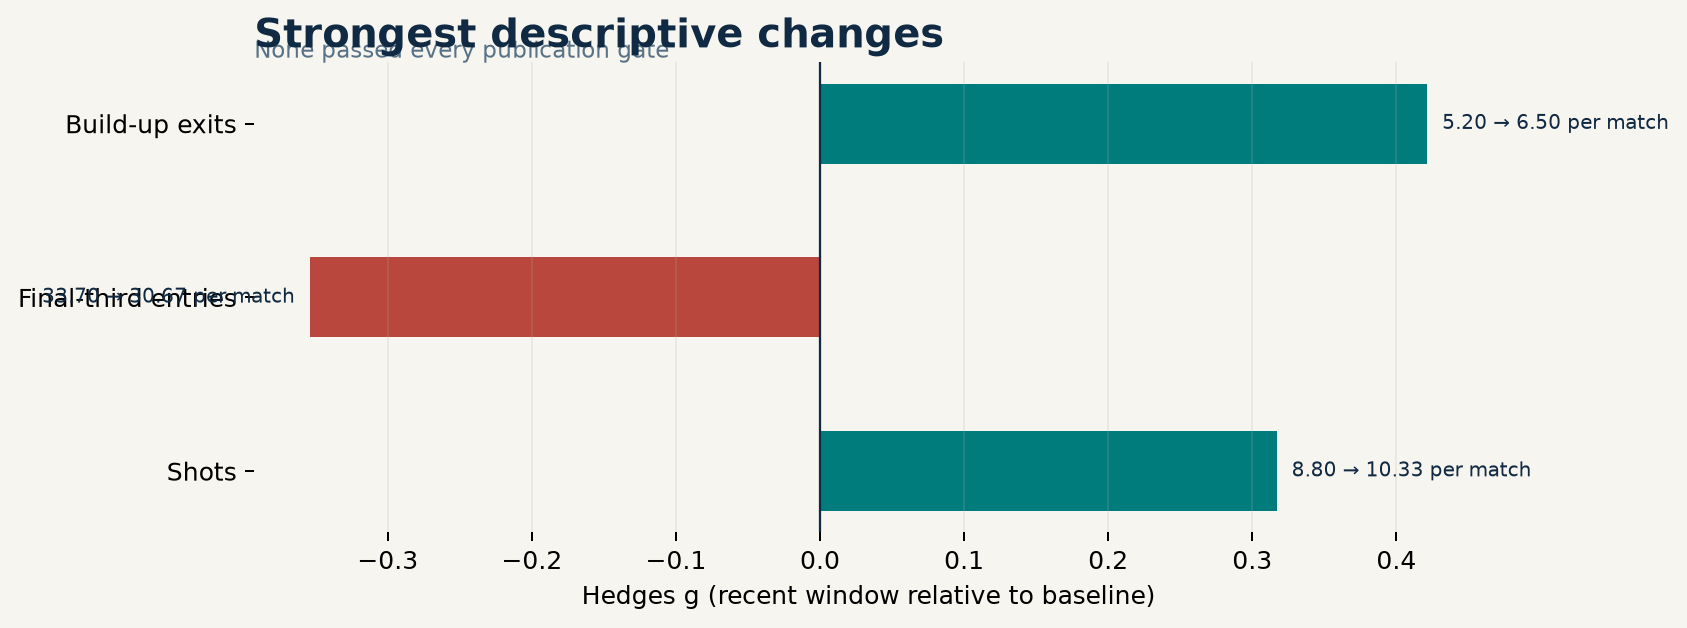
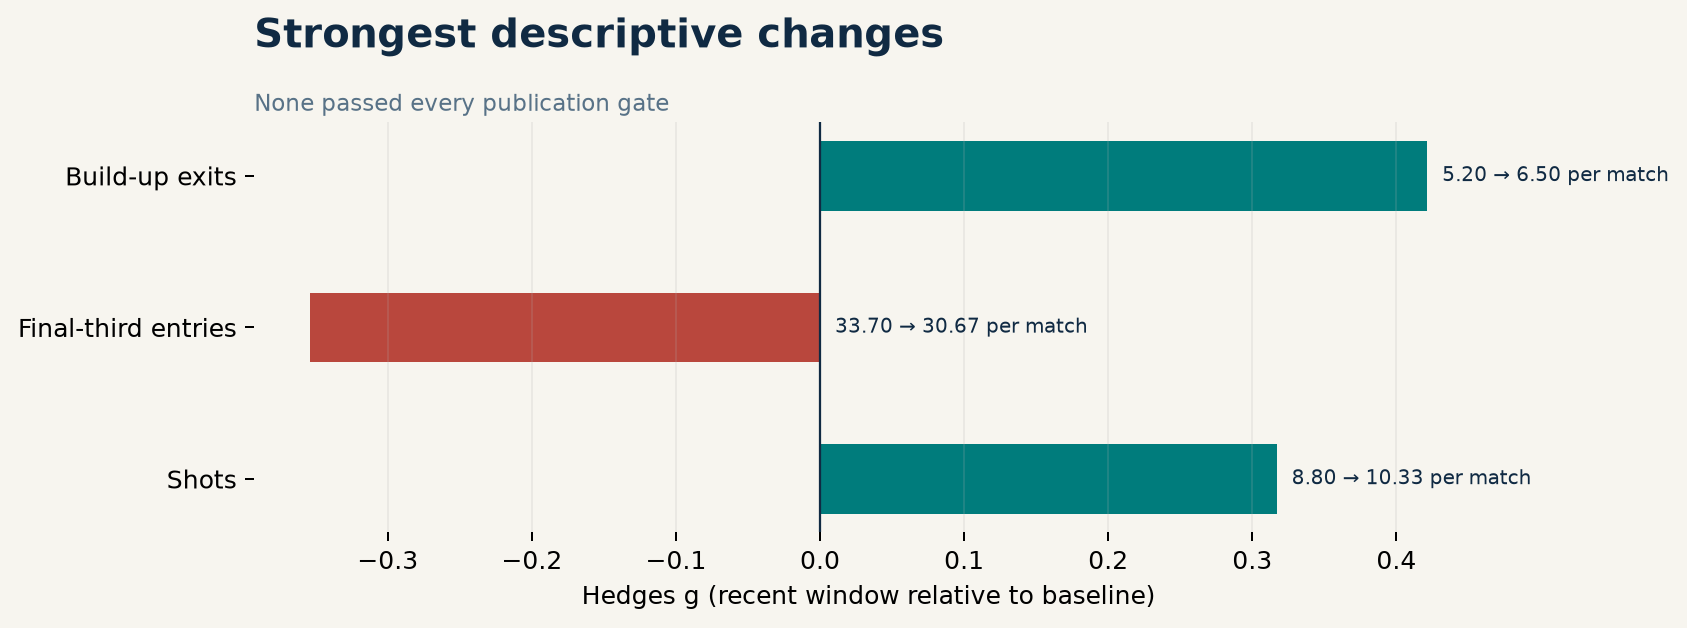
fix: prevent chart annotation overlap

diff --git a/src/signalroom/visuals.py b/src/signalroom/visuals.py
@@ -38,26 +38,28 @@ def metric_comparison_chart(comparisons: list[MetricComparison], output: Path) -
     ax.axvline(0, color=INK, linewidth=0.9)
     ax.set_xlabel("Hedges g (recent window relative to baseline)")
     title = "Published standardized changes" if published else "Strongest descriptive changes"
-    ax.set_title(title, loc="left", color=INK, fontsize=16, weight="bold")
+    ax.set_title(title, loc="left", color=INK, fontsize=16, weight="bold", pad=30)
     if not published:
         ax.text(
             0,
-            1.01,
+            1.015,
             "None passed every publication gate",
             transform=ax.transAxes,
             color="#587287",
             fontsize=9,
+            va="bottom",
         )
     for index, item in enumerate(displayed):
         value = effects[index]
         detail = f"{item.baseline_value:.2f} → {item.recent_value:.2f} {item.unit}"
+        annotation_x = value if value >= 0 else 0.0
         ax.annotate(
             detail,
-            xy=(value, index),
-            xytext=(6 if value >= 0 else -6, 0),
+            xy=(annotation_x, index),
+            xytext=(6, 0),
             textcoords="offset points",
             va="center",
-            ha="left" if value >= 0 else "right",
+            ha="left",
             fontsize=8,
             color=INK,
         )
